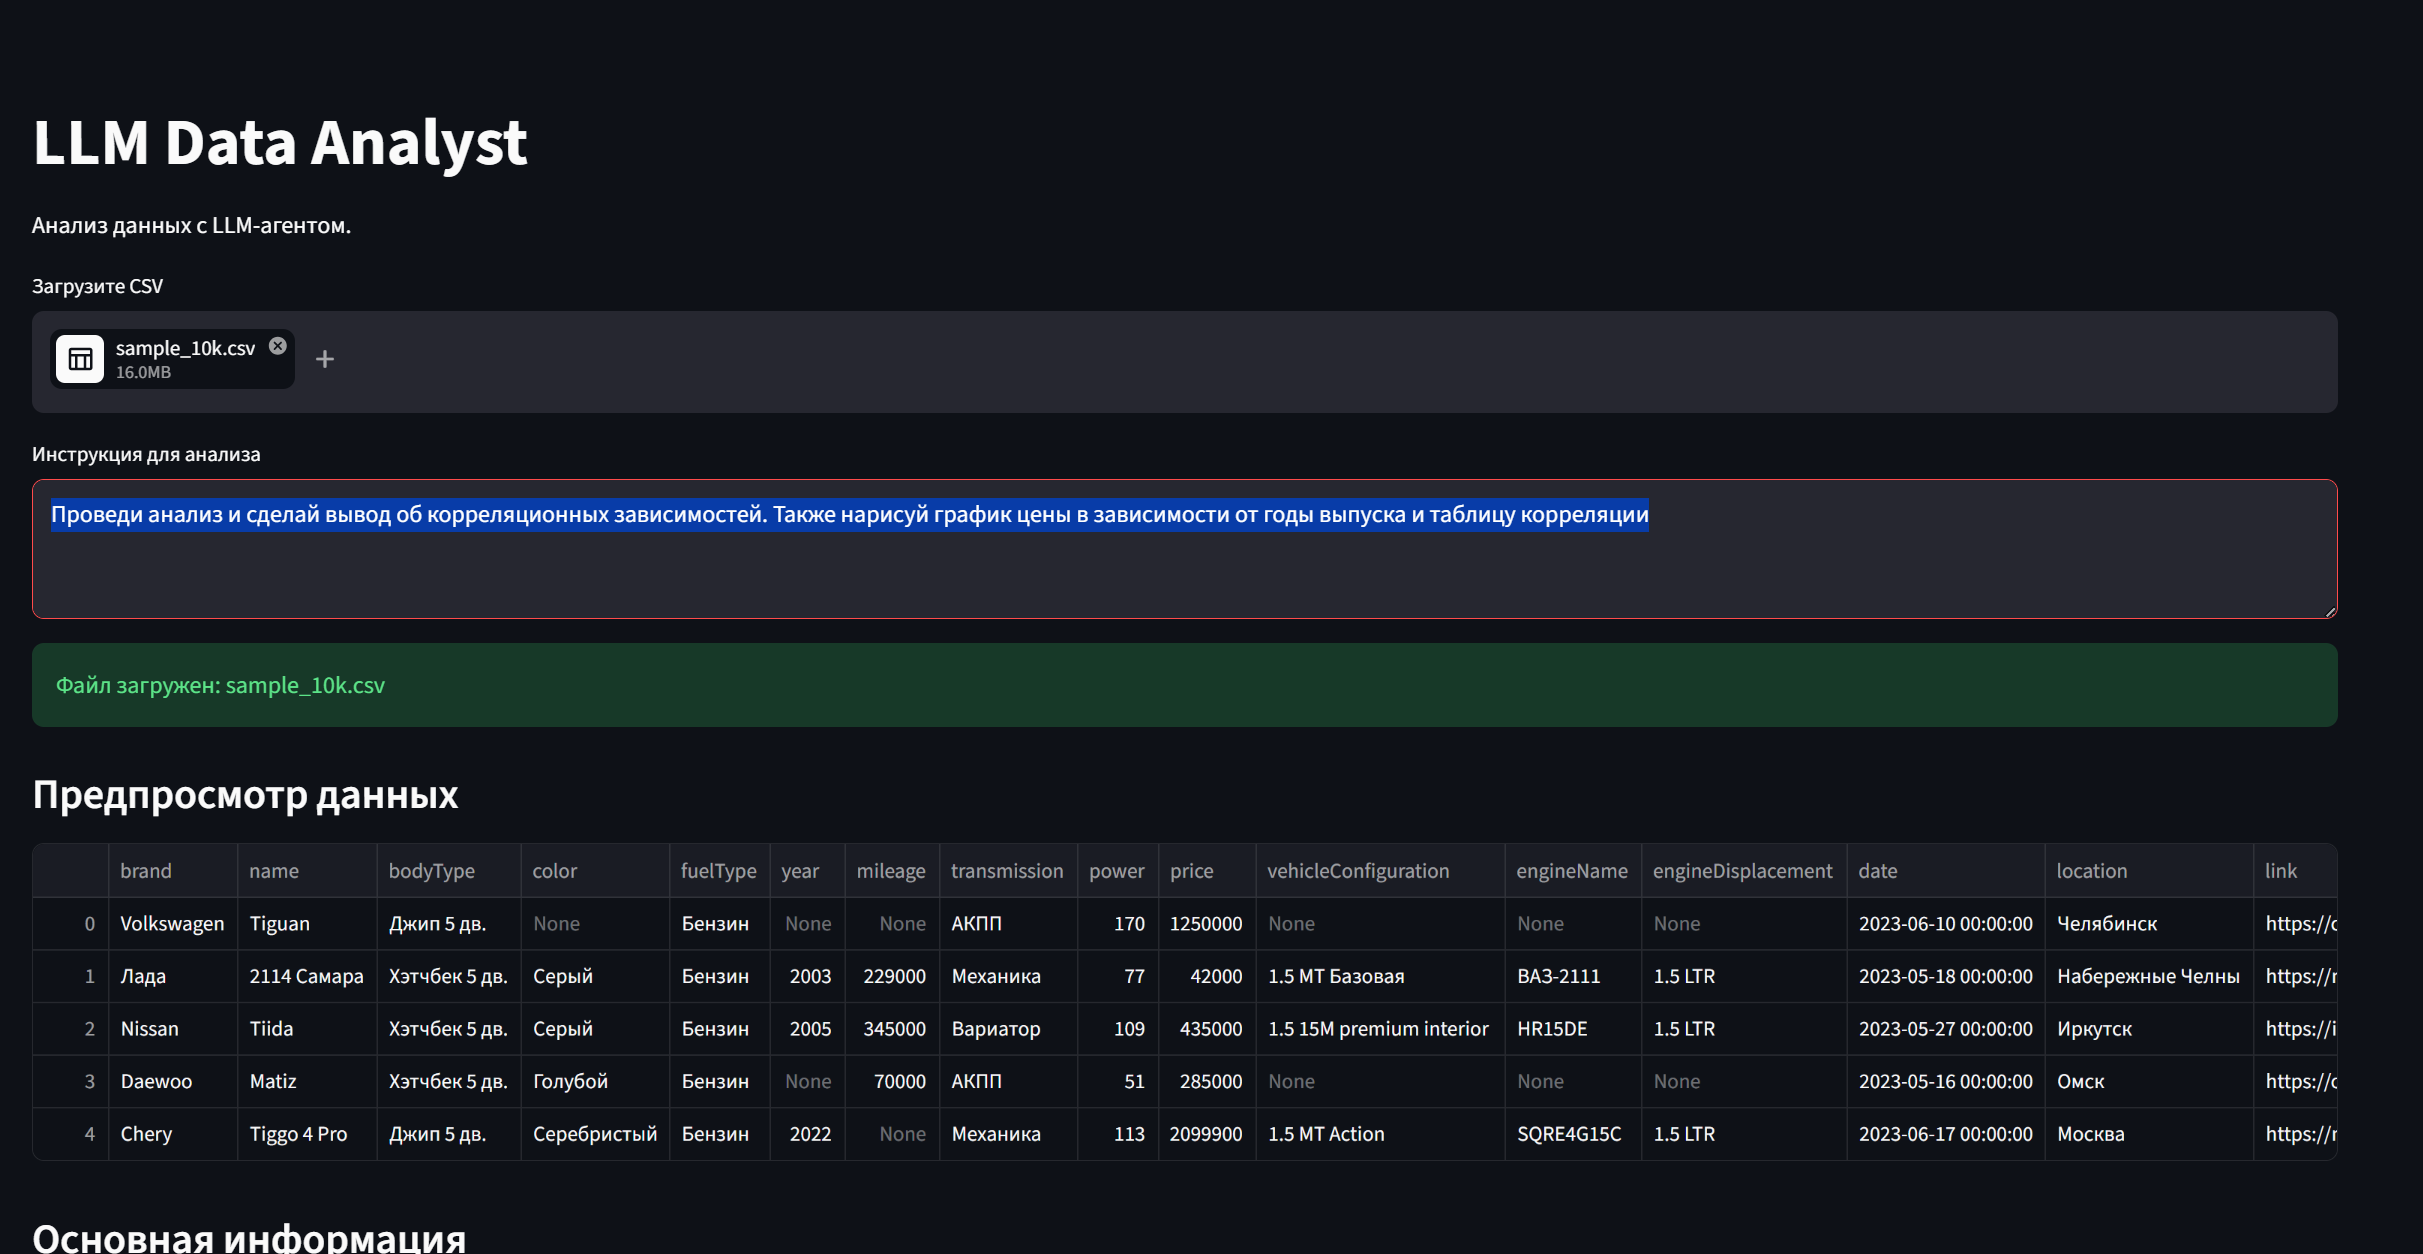
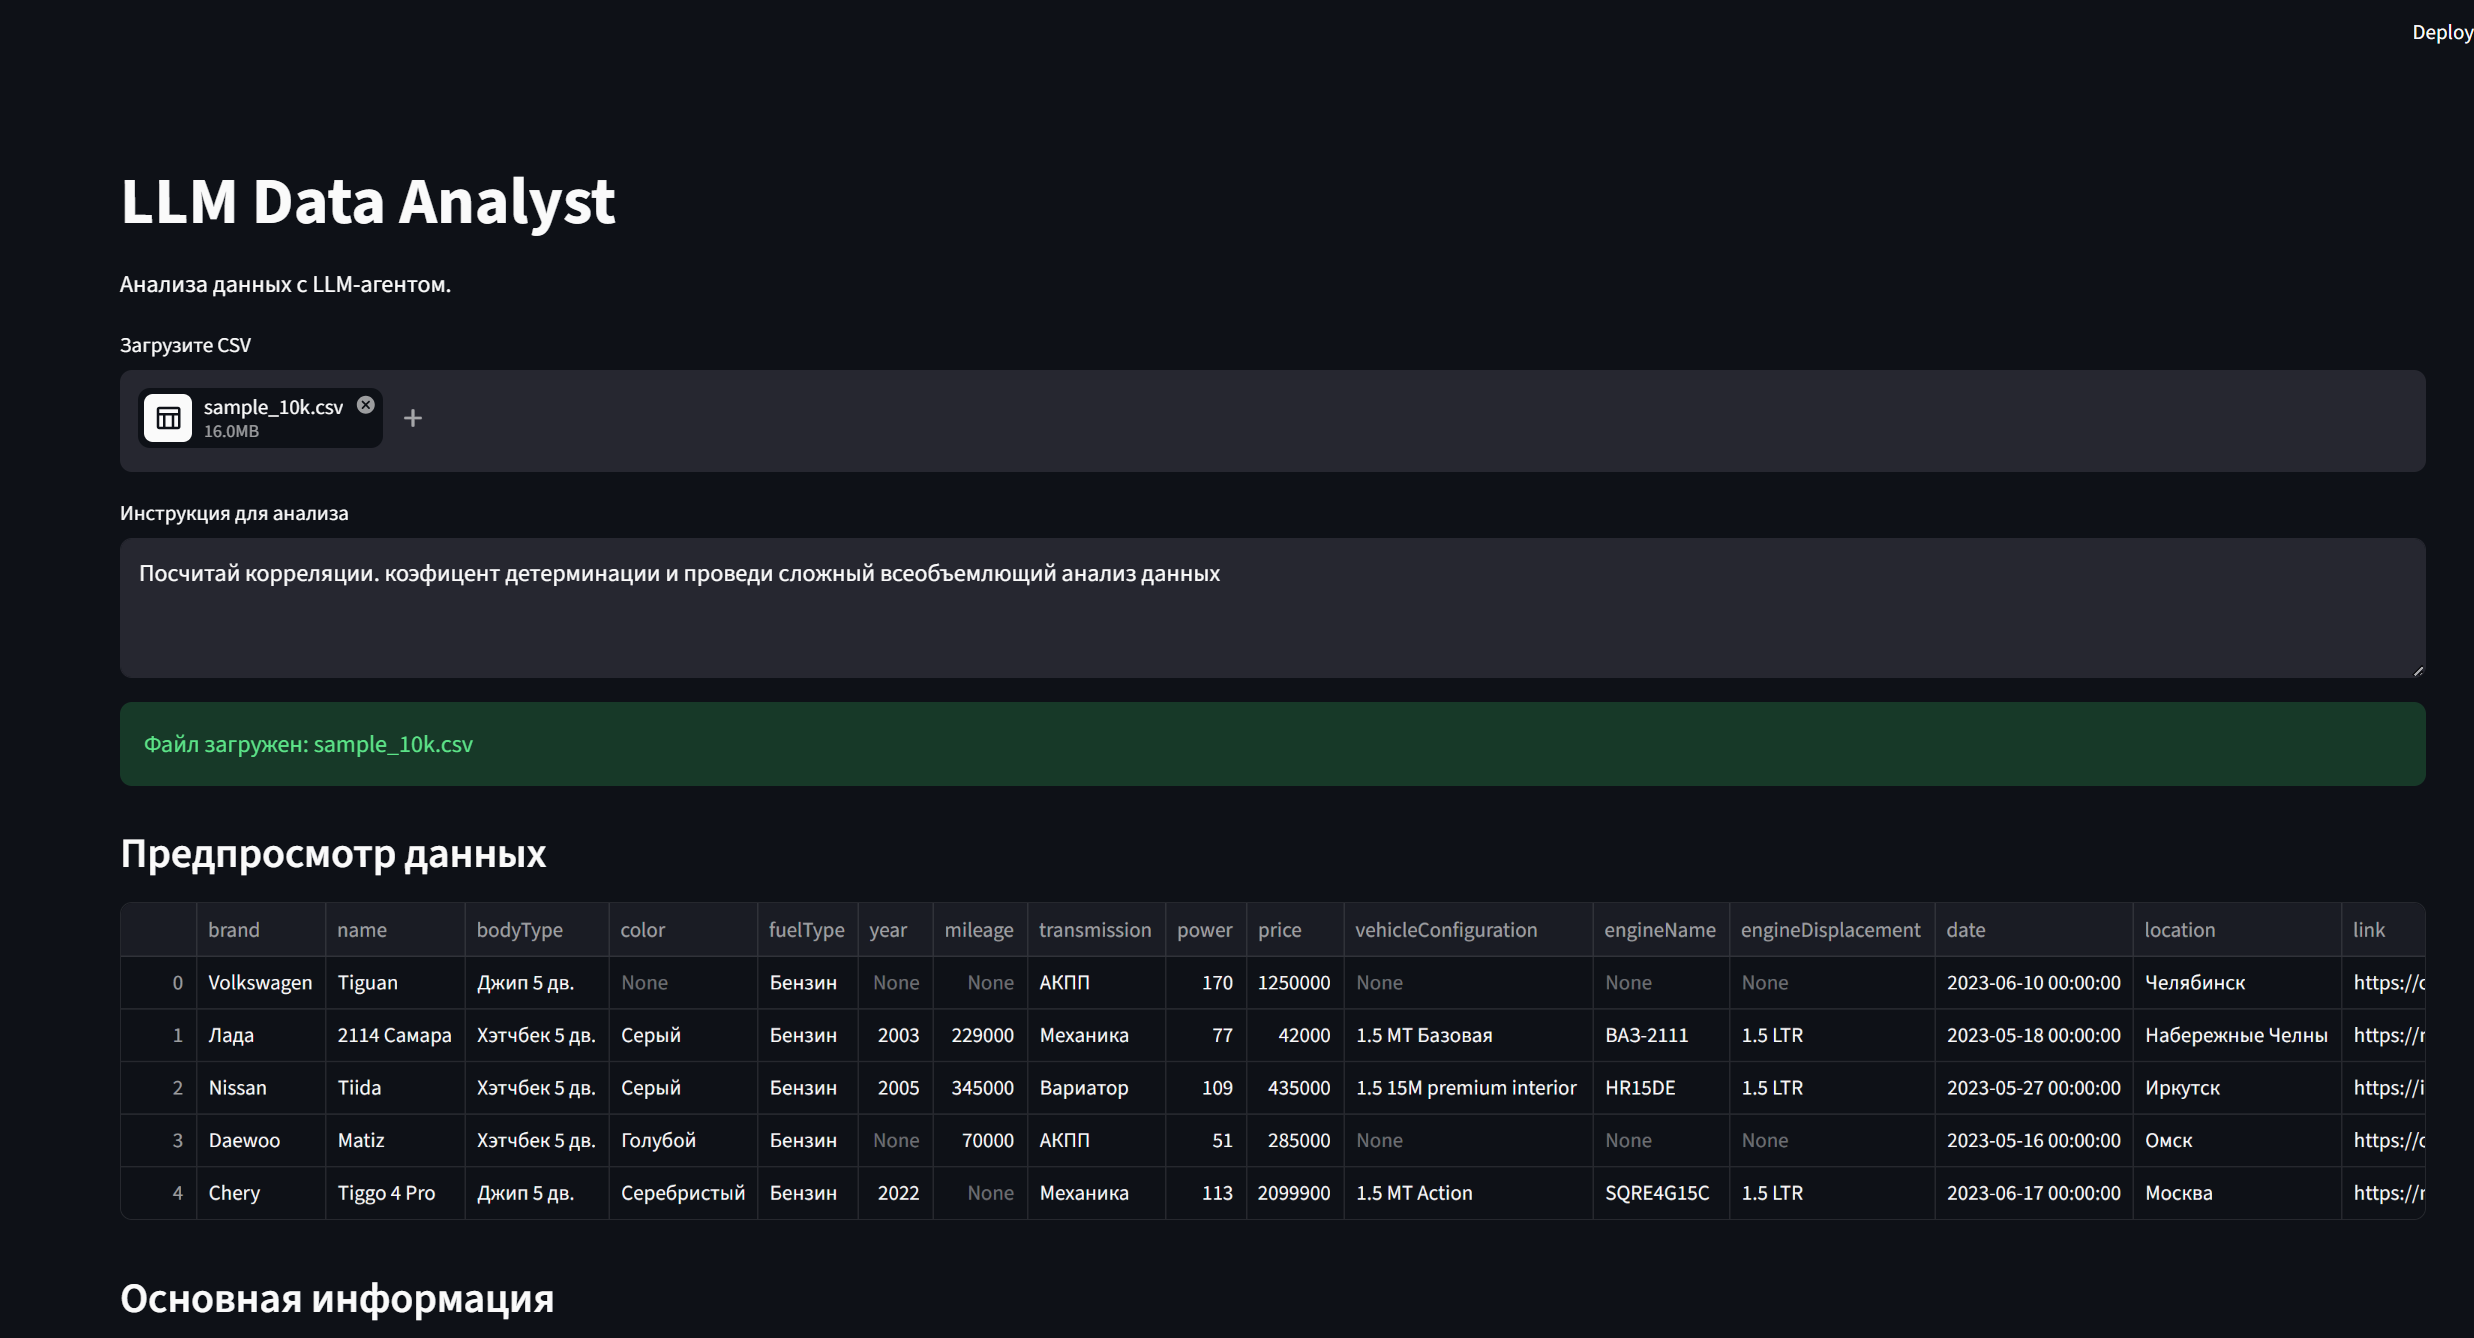
readme

diff --git a/core/agent.py b/core/agent.py
@@ -7,7 +7,7 @@ from core.code_parser import extract_python_code
 from core.code_validator import validate_code
 
 
-def _safe_json_loads(text: str) -> dict:
+def safe_json_loads(text: str) -> dict:
 
     start = text.find("{")
     end = text.rfind("}")
@@ -37,7 +37,7 @@ def format_history(history: list[dict]) -> str:
     )
 
 
-def _build_code_prompt(dataset_summary: str, user_instruction: str, history: list[dict]) -> list[dict]:
+def build_code_prompt(dataset_summary: str, user_instruction: str, history: list[dict]) -> list[dict]:
     system_prompt = """
         Ты — генератор Python-кода для анализа pandas DataFrame (df).
         
@@ -182,7 +182,7 @@ def run_agent(df, user_instruction, max_steps=3):
     final_text = None
 
     for step in range(max_steps):
-        code_messages = _build_code_prompt(dataset_summary, current_instruction, history)
+        code_messages = build_code_prompt(dataset_summary, current_instruction, history)
         raw_response = ask_llm(code_messages)
 
         code = extract_python_code(raw_response)
@@ -208,7 +208,7 @@ def run_agent(df, user_instruction, max_steps=3):
         decision_raw = ask_llm(decision_messages)
 
         try:
-            decision = _safe_json_loads(decision_raw)
+            decision = safe_json_loads(decision_raw)
         except Exception:
             decision = {
                 "action": "finish",

diff --git a/README.md b/README.md
@@ -1,7 +1,11 @@
 
-В работе использовалась модель z-ai/glm-4.5-air:free  
+В работе использовалась модель openai/gpt-oss-120b:free
 
 Пользователь пишет запрос, прикрепляет датасет и ллм его анализирует.
+ЛЛМ сама решает, сколько ей нужно шагом для анализа. может хватить одного запроса, а может на освоне предыдущих шагов выпополнить несколько.
+Максимальное число этих шагов задается переменной max_steps=3, чтобы ллм не решала, что ей необходимо бесконечно 
+углублять изучение вопроса.
+
 Сначала ллм генерит код, в exec он выполняется ( предварительно защита от зловредного кода и инструкций скрытых).  
 Если в сгенерированном коде есть  "os", "sys", "subprocess", "socket",  
     "requests", "pathlib", "shutil",
@@ -14,7 +18,10 @@
 На основе вычисленных значений и метрик ллм может построить таблицу, один из трех типов графиков ("line" | "bar" | "scatter",) и текст. 
 ---
 ![3](3.png)
+![4](4.png)
 Ллм может и не строить таблицу, текст или график, если посчитает это нужным. Тип графика она тоже на свое усмотрение определяет.
+В приведенном примере модель не указала, для каких значений она посчитала коэфицент детерминации. Хотя пользователь это сам не указал в своем промпте, это все же ошибка модели. 
+
 
 
    
